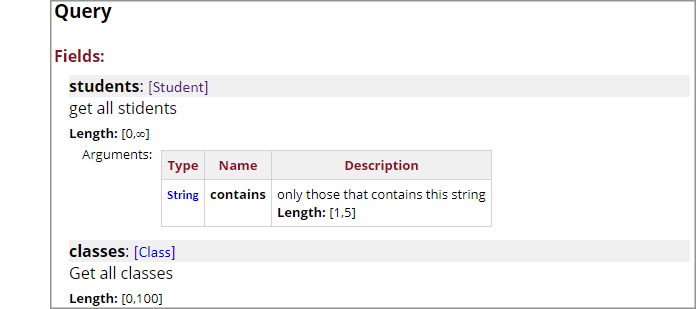
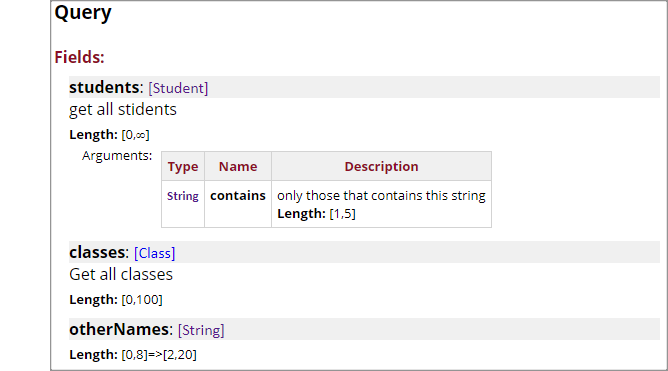
V1.0.0 - Documentation, cleanup, README improvement and minor fixes

Changed region(s): [[0.0599, 0.0, 1.0, 1.0]]

diff --git a/view_model/helpers.js b/view_model/helpers.js
@@ -1,5 +1,11 @@
 const graphql = require('graphql');
 
+/**
+ * Returns an object that contains all the arguments present on a directive in its AST branch
+ * as keys, and their values as value.
+ * @param {graphql.DocumentNode} directive the AST branch of a directive
+ * @returns {Object}
+ */
 function directiveToArgs(directive){
     let args = {};
     directive.arguments.forEach(arg => {
@@ -26,7 +32,7 @@ module.exports = {
      * Returns the arguments of a directive if it exists, or false if not.
      * 
      * @param {graphql.GraphQLNamedType} itemSchema the node's schema
-     * @param {string} kind kind of node (e.g. Type/Scalar/Object etc). Used for default deprecation message
+     * @param {string} directiveName the desired directive's name
      * @returns {(object|boolean)} the arguments of the directive, or false if directive not exists.
      */
     getDirective: function(itemSchema, directiveName){
@@ -41,7 +47,7 @@ module.exports = {
      * Returns the arguments of all instances of directive if any, or false if not.
      * 
      * @param {graphql.GraphQLNamedType} itemSchema the node's schema
-     * @param {string} kind kind of node (e.g. Type/Scalar/Object etc). Used for default deprecation message
+     * @param {string} directiveName the desired directive's name
      * @returns {(object[]|boolean)} the arguments of the directive, or false if directive not exists.
      */
     getDirectives: function(itemSchema, directiveName){
@@ -67,7 +73,7 @@ module.exports = {
         this.makeGettersEnumerable(prototype);
     },
     /**
-     * Flattens a object that is used as a map to an array of values, skipping any key that starts with '__' (i.e. private field).
+     * Flattens an object that is used as a map to an array of values, skipping any key that starts with '__' (i.e. private field).
      * @param {*} map the map
      * @returns {*[]} the values of the maps.
      */

diff --git a/view_model/typeViewModel.js b/view_model/typeViewModel.js
@@ -1,13 +1,15 @@
 const graphql = require('graphql');
-const helpers = require('./helpers');
 const sanitize = require('sanitize-html');
 const md = require('markdown-it')({
     html: true,
     linkify: true
-  });
+});
+
+const helpers = require('./helpers');
 
 /**
  * Returns names of type and basic type for a node.
+ * The basic type is used for links.
  * For example, for [string!] will be returned:
  * {
  *  type: "[string!]",
@@ -18,7 +20,7 @@ const md = require('markdown-it')({
 function getBasicType(type){
     
     if (type.ofType) {
-        return getBasicType(type.ofType);
+        return getBasicType(type.ofType); // the basic type may also be composite, e.g. for "[String!]!"
     }
     return type.toString();
 }
@@ -39,6 +41,10 @@ class AbstractTypeViewModel {
         helpers.makeGettersEnumerable(this);
     }
 
+    /**
+     * Kind of node represented by this view model
+     */
+    // currently used only for default Deprecated message.
     get kind(){
         return 'Object';
     }
@@ -59,6 +65,9 @@ class AbstractTypeViewModel {
             : null;
     }
 
+    /**
+     * @returns {(string|boolean)} a string describing the reason that this node is deprecated or false if not deprecated.
+     */
     get deprecated(){
         return helpers.deprecated(this.itemSchema, this.kind)
     }

diff --git a/view_model/viewModel.js b/view_model/viewModel.js
@@ -1,5 +1,5 @@
 const graphql = require('graphql');
-const filter = require('../elementsTypeFilter')
+
 const helpers = require('./helpers');
 const TypeViewModel = require('./typeViewModel').TypeViewModel;
 const InterfaceViewModel = require('./typeViewModel').InterfaceViewModel;
@@ -9,9 +9,7 @@ const UnionViewModel = require('./typeViewModel').UnionViewModel;
 const InputViewModel = require('./typeViewModel').InputViewModel;
 
 /**
- * View model that represents the GraphQL schema AST for the EJS generator.
- * The engine assumes that the names of the getters match the name of the properties of
- * elementsTypeFilter.
+ * View model that represents the GraphQL schema for the EJS generator.
  */
 class ViewModel {
     /**

diff --git a/apiPageBuilder.js b/apiPageBuilder.js
@@ -2,9 +2,6 @@ const ejs = require('ejs');
 const fs = require('fs');
 const graphql = require('graphql');
 
-const elementsTypeFilter = require('./elementsTypeFilter.js')
-const sanitizer = require('./schemaSanitizer')
-const preprocessor = require('./schemaPreprocessor');
 const ViewModel = require('./view_model/viewModel');
 
 module.exports = {

diff --git a/index.js b/index.js
@@ -62,7 +62,7 @@ let args = yargs
     )
     .demandCommand()
     .help()
-    .argv;
+    .argv; //parse
 
 if (command===file) {
     let schemaText = fs.readFileSync(args.path, 'utf-8');

diff --git a/README.md b/README.md
@@ -85,7 +85,7 @@ Used to indicate deprecation, with an optional reason. Can be used on type (any 
 
 <small> ***Note**: some GraphQL libraries declare deprecated to be used on less schema parts (only field definition for example). Although this **deprecated** message will not show up in introspection (and therefore neither in GraphiQL, you can still declare it in the schema file and **GraphQL API Page Generator** will still process this directive wherever it appears, given the schema file. However, this directive will not appear if schema is obtained via introspection.* </small>
 
-Example:
+**Example:**
 ```GraphQL
 type Student @deprecated (reason: "University is closing") {
     "The name of the student"
@@ -100,7 +100,7 @@ Result: <br/>
 ![Deprecated screenshot](/docs/screenshot-deprecated.png)
 ### The `@range` directive
 ```GraphQL
-directive @range(min: Float, max: Float, maxPrecision: Float) on 
+directive @range(min: Float = -∞, max: Float = ∞, maxPrecision: Float) on 
     FIELD_DEFINITION|ARGUMENT_DEFINITION|INPUT_FIELD_DEFINITION
 ```
 Used to describe the valid range of a numerical field or argument. If `min` is not provided, it is considered to be -∞ , if `max` is not defined it is considered to be ∞. Both `min` and `max` are regarded as inclusive.
@@ -109,7 +109,7 @@ The maximal precision is a number that represents the smallest step acceptable. 
 
 <small> ***Note**: some GraphQL libraries do not support custom directives. **GraphQL API Page Generator** will still process this directive wherever it appears, given the schema file. However, this directive will not appear if schema is obtained via introspection.* </small>
 
-Example:
+**Example:**
 ```GraphQL
 type Student {
     "The name of the student"
@@ -125,14 +125,25 @@ Result: <br/>
 ![Deprecated screenshot](/docs/screenshot-range.png)
 ### The `@length` directive
 ```GraphQL
-directive @length(min: Float, max: Float) on 
+directive @length(min: Float = 0, max: Float = ∞, level: Int = 1) on 
     FIELD_DEFINITION|ARGUMENT_DEFINITION|INPUT_FIELD_DEFINITION
 ```
-Used to describe the valid length of field or argument that are array or string. If `min` is not provided, it is considered to be 0 , if `max` is not defined it is considered to be ∞. Both `min` and `max` are regarded as inclusive.
+Used to describe the valid length of field or argument that are **`array`** or **`string`**. If `min` is not provided, it is considered to be 0 , if `max` is not defined it is considered to be ∞. Both `min` and `max` are regarded as inclusive.
+
+`level` is used for nested objects tha has length. For example, a field of type `[[int]]`, in which we would want to describe length limit of outer and inner arrays, or field of type `[string]` in which we would like to describe the length of both the array and the string.<br/>
+The `level` is ordering the length definitions from outer to inner, e.g. in this definition: 
+```
+nameLists: [[string]] 
+    @length(max: 3, level:1) 
+    @length(min: 1, max: 8, level:2) 
+    @length(max:5, level: 3)
+```
+we have an array that holds up to 3 arrays, each one with 1 to 8 strings in length of up to 5 characters.<br/>
+If `level` is not defined it is considered to be 1. `@length` directive with equal `level` are sorted according to order of appearance.
 
 <small> ***Note**: some GraphQL libraries do not support custom directives. **GraphQL API Page Generator** will still process this directive wherever it appears, given the schema file. However, this directive will not appear if schema is obtained via introspection.* </small>
 
-Example:
+**Example:**
 ```GraphQL
 type Query {
     "get all stidents"
@@ -142,6 +153,9 @@ type Query {
     ): [Student] @length
     "Get all classes"
     classes: [Class] @length(min: 0, max: 100)
+    otherNames: [String] 
+        @length(max:8, level: 1) 
+        @length(min: 2, max: 20, level: 2)
 }
 ```
 Result: <br/>
@@ -154,9 +168,9 @@ directive @mask(regExp: String!) on
 ```
 Used to describe the valid values of a string field or argument.
 
-***Note**: some GraphQL libraries do not support custom directives. **GraphQL API Page Generator** will still process this directive wherever it appears, given the schema file. However, this directive will not appear if schema is obtained via introspection.* 
+<small>***Note**: some GraphQL libraries do not support custom directives. **GraphQL API Page Generator** will still process this directive wherever it appears, given the schema file. However, this directive will not appear if schema is obtained via introspection.*</small>
 
-Example:
+**Example:**
 ```GraphQL
 type Student {
     "Identifier of the student as supplied by the school"
